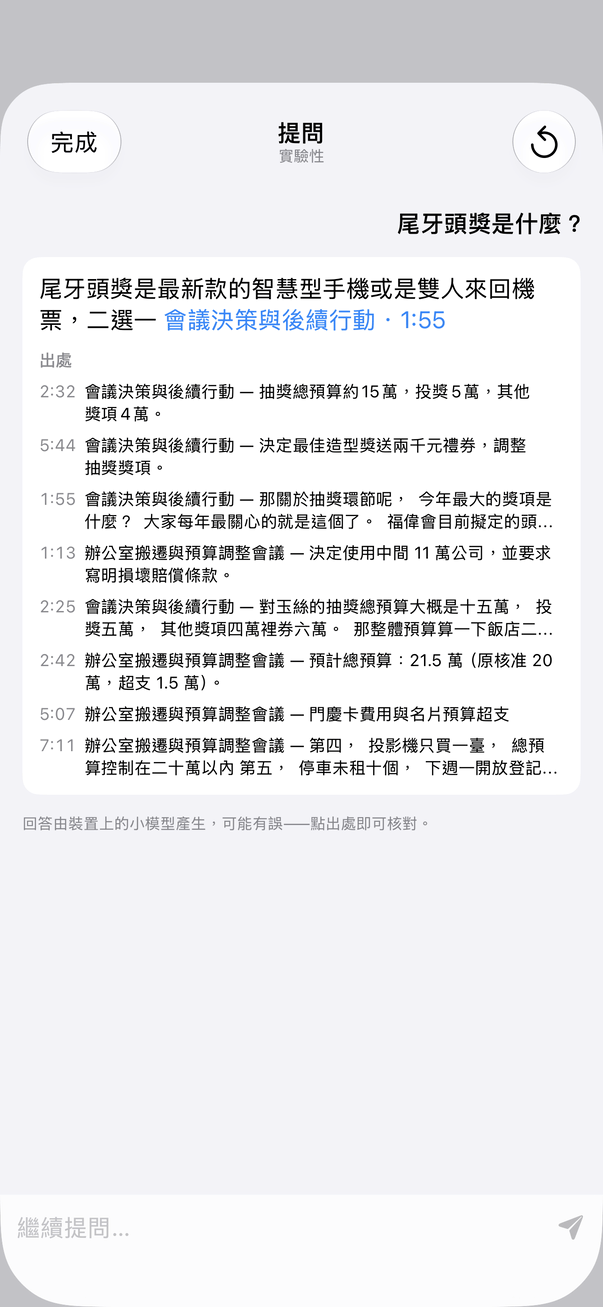
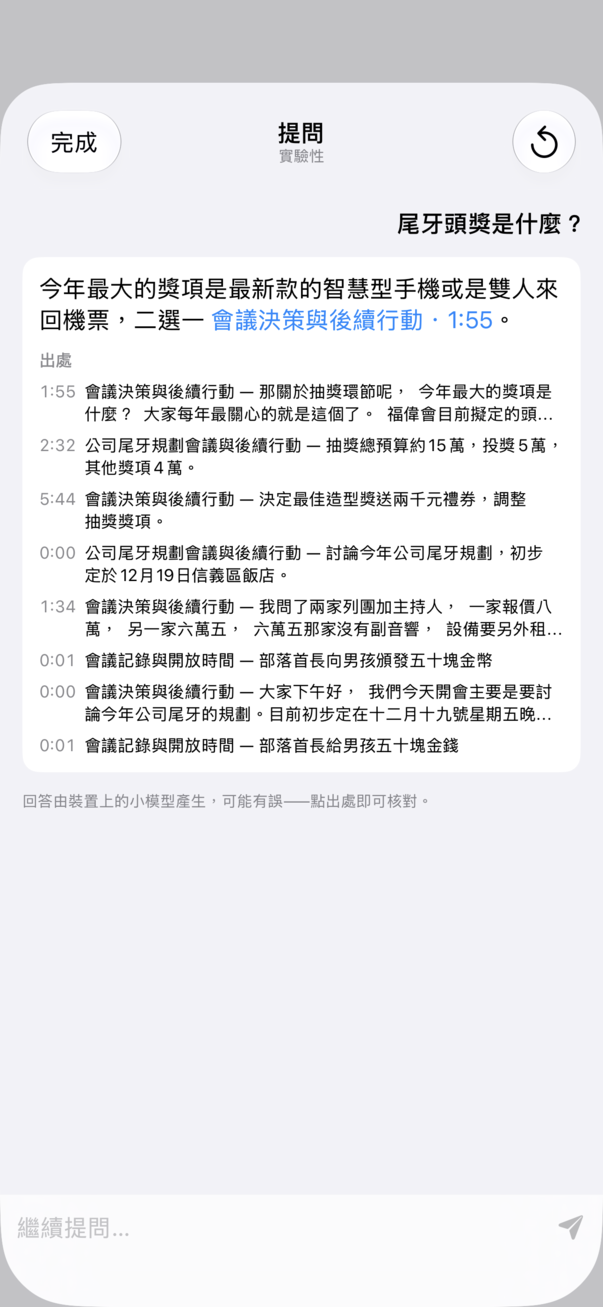
docs (iOS): README and guide for the labeled Ask button, Ask stages, first-use download prompt, merge confirmation + Undo and the no-speech status; library, dark library, search, Ask, download prompt and merge reshot on the iPhone 14 Pro Max (search/Ask animations not re-recorded)

Changed region(s): [[0.0299, 0.2142, 0.9254, 0.6427]]

diff --git a/docs/USER_GUIDE.md b/docs/USER_GUIDE.md
@@ -42,13 +42,13 @@ flowchart TD
 
 <p><img src="guide/01-library.png" width="200"> <img src="guide/04-select.png" width="200"> <img src="guide/19-dark.png" width="200"></p>
 
-所有錄音與匯入的場次依日期（今天、昨天、日期）分組。上方可搜尋會議、主題或「誰說過…」，並以晶片篩選；沒有場次時顯示說明（隱私、離線、免費）。底部的 **錄音** 開始一場新會議。排入佇列或處理中的項目列在最上方。
+所有錄音與匯入的場次依日期（今天、昨天、日期）分組。上方可搜尋會議、主題或「誰說過…」，並以晶片篩選；右側的 **提問** 向會議提問（第 1a 節）。沒有場次時顯示說明（隱私、離線、免費）。沒有偵測到說話的錄音以麥克風斜線圖示與「未偵測到語音」標示，不寫 AI 筆記，也不列在「已完成」。底部的 **錄音** 開始一場新會議。排入佇列或處理中的項目列在最上方。
 
 | 節點 | 如何到達 | 預期結果 | 驗證 |
 |---|---|---|---|
 | 搜尋會議、主題、「誰說過…」 | 首頁上方輸入框 | 立即依標題與關鍵字篩選；停頓後依語意比對段落、筆記與摘要，符合的段落（≈，附時間與語者）列在場次下方，點段落從該處播放；語意比對進行中且還沒有結果時顯示「搜尋中…」，比對完仍沒有結果才顯示「沒有符合搜尋的場次。」 | ✅ 手動（iPhone 14 Pro Max） |
 | 依語意搜尋 — 下載模型 | 搜尋模型未下載時，搜尋框下方 | 下載約 160 MB 後，為既有會議建立索引（「正在建立索引…」）；之後每場會議結束後自動建立 | ⬜ |
-| 提問按鈕（傳送圖示） | 設定 › 實驗功能 › 向會議提問開啟、搜尋模型已下載、搜尋框非空 | 開啟提問面板（第 1a 節） | ✅ 手動（iPhone 14 Pro Max） |
+| 提問 | 搜尋框右側；AI 筆記模型與搜尋模型都已下載時出現（設定 › 向會議提問，預設開啟） | 搜尋框有文字時直接提問，空白時開啟提問面板（第 1a 節） | ✅ 手動（iPhone 14 Pro Max） |
 | 篩選晶片 全部／已完成 | 有場次時 | 只列出該狀態的場次 | ⬜ |
 | 點場次 | 點一列 | 開啟場次（第 5 節） | ✅ 手動 |
 | 錄音 | 底部按鈕 | 首次要求麥克風權限；拒絕時顯示「需要麥克風權限」；允許後進入錄音室（第 4 節） | ✅ 手動 |
@@ -56,13 +56,23 @@ flowchart TD
 | 設定圖示 | 右上 | 設定（第 8 節） | ✅ 手動 |
 | 下載列 | 模型下載中 | 名稱、進度與取消 | ✅ 手動 |
 
+<p><img src="guide/34-download-prompt.png" width="200" alt="下載 AI 模型？"></p>
+
+第一次開啟時（以及之後錄音、匯入或下載 Podcast 單集前若還缺模型），**下載 AI 模型？** 列出需下載的總量與每個模型的大小；未連上 Wi‑Fi（或開啟低數據模式）時提醒可能使用行動數據。
+
+| 節點 | 預期結果 | 驗證 |
+|---|---|---|
+| 立即下載 | 在背景下載，首頁顯示進度 | ⬜ |
+| 僅限 Wi‑Fi | 連上 Wi‑Fi 後自動下載 | ⬜ |
+| 稍後 | 本次不下載；下次錄音或匯入前再詢問 | ⬜ |
+
 ### 1a. 向會議提問（實驗性）
 
-<p><img src="guide/31-library-search.png" width="200" alt="依語意搜尋"> <img src="guide/32-ask.png" width="200" alt="提問"></p>
+<p><img src="guide/31-library-search.png" width="200" alt="依語意搜尋"> <img src="guide/33-ask-progress.png" width="200" alt="提問：閱讀摘錄中"> <img src="guide/32-ask.png" width="200" alt="提問"></p>
 
 | 節點 | 如何到達 | 預期結果 | 驗證 |
 |---|---|---|---|
-| 提問 | 搜尋框輸入問題 → 傳送 | 「正在尋找段落…」→「正在載入模型…」→「思考中…」→ 答案逐字出現，下方列出出處（時間 · 場次 — 段落）與免責聲明 | ✅ 手動（iPhone 14 Pro Max：約 6 秒） |
+| 提問 | 搜尋框輸入問題 → 提問；或空白時點提問，在面板輸入 | 「正在搜尋會議… N 秒」→「正在閱讀 N 段摘錄… N 秒」→「正在回答… N 秒」→ 答案逐字出現，下方列出出處（時間 · 場次 — 段落）與免責聲明 | ✅ 手動（iPhone 14 Pro Max：約 6 秒） |
 | 點答案中的出處或下方出處 | 答案完成後 | 關閉面板，開啟該場次並從該段開頭播放 | ✅ 手動（iPhone 14 Pro Max） |
 | 繼續提問… | 面板底部輸入框 | 帶著前一輪對話追問；↻（新對話）清除對話 | ⬜ |
 | 裝置忙碌 | 錄音、轉寫或摘要進行中提問 | 「請等目前的錄音、轉寫或摘要完成後再提問。」 | ⬜ |
@@ -132,6 +142,8 @@ flowchart TD
 
 <p><img src="guide/11-transcript.png" width="200"> <img src="guide/14-speaker.png" width="200"> <img src="guide/15-line.png" width="200"></p>
 
+<p><img src="guide/35-merge-confirm.png" width="200" alt="合併語者確認"> <img src="guide/36-merge-undo.png" width="200" alt="已合併語者，復原"></p>
+
 上方註明處理流程（X-ASR + Nemotron-3 語者分離）。
 
 | 節點 | 預期結果 | 驗證 |
@@ -139,7 +151,7 @@ flowchart TD
 | 點一句 | 從該處播放 | ✅ 手動 |
 | 長按 → 編輯 | 修改文字並儲存 | ⬜ |
 | 長按 → 移給語者 | 這句改派給另一位語者 | ⬜ |
-| 長按 → 合併語者 | 該語者全部併入另一位 | ⬜ |
+| 長按 → 合併語者 | 先確認；該語者全部併入另一位，下方「已合併語者」橫幅 8 秒內可點 **復原**（移動單句同樣可復原） | ✅ 手動（iPhone 14 Pro Max，DEV 觸發：確認框與復原橫幅） |
 | 語者改名 | 點語者名稱 | ⬜ |
 | 修改後 | 有摘要時提示「逐字稿已變更，要重新摘要嗎？」 | ⬜ |
 | 搜尋（放大鏡）→ ≈ | 關閉 ≈：找出含有搜尋字詞的句子；開啟 ≈（搜尋模型已下載時）：也找出意思相近的句子 | ✅ 手動（iPhone 14 Pro Max） |
@@ -172,7 +184,7 @@ flowchart TD
 | 硬體狀態列 | 顯示 CPU、記憶體等 | ⬜ |
 | 推論執行緒 | 自動（首次一秒測試）或手動；載入失敗時自動降低 | ✅ 手動 |
 | 顯示待辦事項 | 摘要分頁多一張待辦卡 | ✅ 手動 |
-| 實驗功能：向會議提問 | 首頁搜尋框出現傳送按鈕（第 1a 節）；需要搜尋模型 | ✅ 手動 |
+| 向會議提問（預設開啟） | 首頁搜尋框右側出現「提問」（第 1a 節）；需要 AI 筆記模型與搜尋模型 | ✅ 手動 |
 | 儲存空間：下載搜尋模型／為舊會議建立索引 | 未下載時顯示「下載搜尋模型（約 160 MB）」；下載後顯示待建立索引的會議數與「為舊會議建立索引」，全部完成時顯示「所有會議都已建立搜尋索引。」 | ⬜ |
 | 儲存空間 | 列出每個模型（含編譯快取大小），可刪除 | ✅ 手動 |
 | 關於 | 版本、元件與授權 | ⬜ |

diff --git a/README.md b/README.md
@@ -31,7 +31,7 @@ Prime Minutes for iOS 是 [Android 版](https://github.com/vieenrose/PrimeMinute
 - **邊開會邊做筆記**：AI 筆記在錄音中閱讀逐字稿，寫下決議、待辦與數字；停止後很快完成摘要。
 - **每句都可核對**：摘要與筆記的時間點一下，就從原話開始播放。
 - **依語意搜尋整個會議庫**：在首頁輸入「誰提到預算」或「延期」，就列出意思相近的段落與筆記，不必記得原話。搜尋模型（EmbeddingGemma 2，約 160 MB）另行下載，同樣完全離線。
-- **向會議提問（實驗性）**：輸入問題，AI 筆記模型根據搜尋找到的段落作答並附出處，一點就跳到原話。
+- **向會議提問（實驗性）**：點首頁的「提問」，AI 筆記模型根據搜尋找到的段落作答並附出處，一點就跳到原話。
 - **錄音不會遺失**：開始錄音前就排入佇列，App 被終止也保留音訊；處理失敗的項目留在佇列可「重試」。
 - **可編輯、可匯出**：修正文字、改派或合併語者；匯出 Prime Minutes 場次 `.m4a`（與 Android 互通）、PDF、Markdown、純文字或字幕。
 - **依手機調整**：首次啟動做一秒測試選執行緒數；所有推論皆在 CPU 上執行。
@@ -43,15 +43,17 @@ Prime Minutes for iOS 是 [Android 版](https://github.com/vieenrose/PrimeMinute
 | <img src="docs/screenshots/search.gif" width="260" alt="語意搜尋：輸入問題，列出意思相近的段落"> | <img src="docs/screenshots/ask.gif" width="260" alt="向會議提問：根據段落作答並附出處"> |
 | 輸入「大家的車要停哪裡」：原話說的是「有沒有停車位……月租一個四千五」，用詞不同也找得到；點段落就從 3:50 開始播放。 | 問「尾牙頭獎是什麼？」：AI 筆記模型讀過搜尋找到的段落後作答，並附上出處；點出處就跳到 1:55 的原話。 |
 
-兩段皆在 iPhone 14 Pro Max 上即時錄製（App 內每秒 10 格擷取），未加速；會議標題由 AI 筆記模型自動產生。搜尋在輸入時先比對關鍵字，一兩秒後補上語意相近的結果；提問約 5 秒完成（E2B）。搜尋模型（約 160 MB）在搜尋框下方或「設定」下載；提問需在「設定 › 實驗功能」開啟。
+兩段皆在 iPhone 14 Pro Max 上即時錄製（App 內每秒 10 格擷取），未加速；會議標題由 AI 筆記模型自動產生。搜尋在輸入時先比對關鍵字，一兩秒後補上語意相近的結果；提問約 5 秒完成（E2B），作答時面板顯示目前的階段（搜尋、閱讀 N 段摘錄、回答）與秒數。搜尋模型（約 160 MB）在搜尋框下方或「設定」下載；AI 筆記模型與搜尋模型都在手機上之後，搜尋框右側就會出現「提問」按鈕（兩段動畫錄於此按鈕加上標籤之前，當時是一個傳送圖示）。
 
 ## 使用
 
-**錄音**：首頁底部的錄音鈕。逐字稿即時出現，語者確定後標上顏色；AI 筆記卡片顯示它在閱讀或寫筆記。停止後場次自動轉錄、摘要並取標題，完成時發出「場次已就緒」通知。
+**第一次使用**：開啟 App 時先列出要下載的模型與總量（語音約 271 MB、AI 筆記約 2.2 GB），可選「立即下載」、「僅限 Wi‑Fi」或「稍後」；未連 Wi‑Fi 時會提醒可能使用行動數據。之後錄音或匯入前若還缺模型，會再詢問一次。
+
+**錄音**：首頁底部的錄音鈕。逐字稿即時出現，語者確定後標上顏色；AI 筆記卡片顯示它在閱讀或寫筆記。停止後場次自動轉錄、摘要並取標題，完成時發出「場次已就緒」通知。沒有偵測到說話的錄音標為「未偵測到語音」，不寫 AI 筆記，也不列在「已完成」。
 
 **摘要**：段落式摘要（超過 12 行可展開／收合，可編輯、複製），藍色時間點可直接播放；待辦事項另列一卡；下方一行是各語者的發言比例。
 
-**逐字稿**：點任一句從該處播放；長按可修改文字、把這句移給其他語者，或把整位語者合併到另一位；點語者可改名。修改逐字稿後會提示重新摘要。
+**逐字稿**：點任一句從該處播放；長按可修改文字、把這句移給其他語者，或把整位語者合併到另一位（合併前先確認，之後可「復原」）；點語者可改名。修改逐字稿後會提示重新摘要。
 
 **場次選單**（右上 **⋯**）：分享逐字稿、匯出（`.m4a` 場次、PDF、MD、TXT、SRT、VTT、LRC）、**重新轉錄**、**重新摘要**（保留逐字稿與語者名稱；完成後可「復原」）。換了 AI 筆記模型後開啟舊場次會提示重新摘要。
 
@@ -59,14 +61,16 @@ Prime Minutes for iOS 是 [Android 版](https://github.com/vieenrose/PrimeMinute
 
 **匯入**：首頁 **＋** 可加入「檔案」App 裡的音訊、Podcast，或開啟 Prime Minutes 場次 `.m4a`；也可從其他 App 分享音訊過來。
 
-**設定**：語言（English、繁體中文、简体中文）、外觀（自動、淺色、深色、電子紙）、文字大小、語者標註延遲（5–30 秒）、AI 筆記模型（E2B，或 RAM 足夠的 iPhone 可選 E4B）、硬體狀態列、推論（執行緒數）、顯示待辦事項、模型與儲存空間管理、關於。
+**提問**：點首頁搜尋框右側的「提問」（或先在搜尋框輸入問題再點），AI 筆記模型只根據找到的段落作答，每個論點附上出處，點出處即可核對；可以接著追問。需要搜尋模型與 AI 筆記模型。
+
+**設定**：語言（English、繁體中文、简体中文）、外觀（自動、淺色、深色、電子紙）、文字大小、語者標註延遲（5–30 秒）、AI 筆記模型（E2B，或 RAM 足夠的 iPhone 可選 E4B）、硬體狀態列、推論（執行緒數）、向會議提問（預設開啟）、顯示待辦事項、模型與儲存空間管理、關於。
 
 完整操作說明與介面測試地圖見 [`docs/USER_GUIDE.md`](docs/USER_GUIDE.md)。
 
 ## 需求
 
 - iOS 17.0 以上，arm64 iPhone。驗證機型：iPhone 14 Pro Max（6 GB）。
-- 模型首次使用時下載：語音引擎約 275 MB，AI 筆記模型 E2B 約 2.2 GB（E4B 約 3.3 GB）。
+- 模型在第一次開啟時詢問後下載（會先顯示總量，可選僅限 Wi‑Fi）：語音引擎約 271 MB，AI 筆記模型 E2B 約 2.2 GB（E4B 約 3.3 GB）。
 - RAM 不足 4.5 GB 的 iPhone 自動改為循序處理：錄音結束後才閱讀。3 GB 機型（如 iPhone XR）無法可靠執行 E2B。
 - 唯一的網路連線：下載模型與 Podcast。
 
